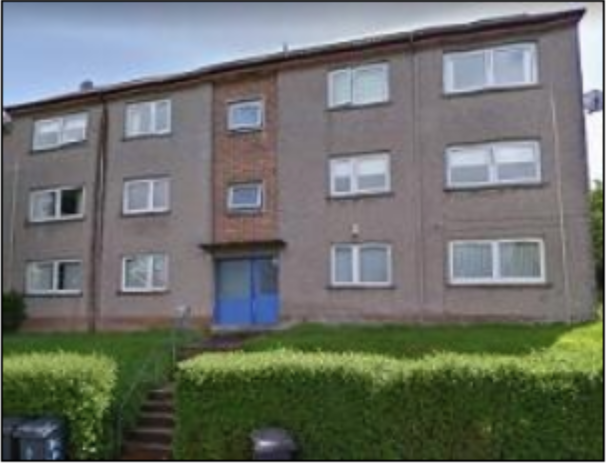
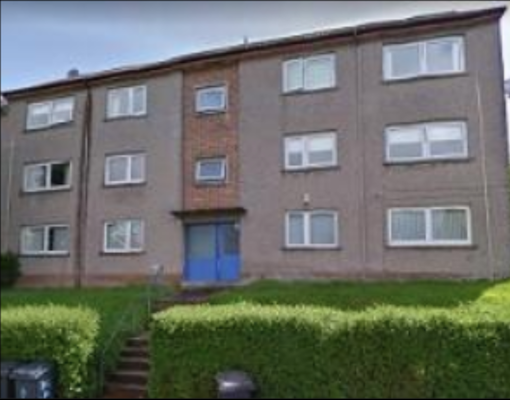
fix small difference in photo size and replace change of cirucmstances by apply for council tax reduction

diff --git a/app/views/index.html b/app/views/index.html
@@ -52,7 +52,7 @@
         <li><a href="/forms/erc-forms/council-tax-online/pay-council-tax/PCTintro"><strong>Pay Council tax</strong></a>   - see the <a href="https://www.eastrenfrewshire.gov.uk/pay-your-council-tax" target="_blank" rel="noopener">live</a> form<span class="govuk-tag started-tag">Started</span></li>
         <li><a href="/forms/erc-forms/council-tax-online/register-for-council-tax/RCTintro"><strong>Register for Council Tax online</strong></a>   - see the <a href="https://www.eastrenfrewshire.gov.uk/council-tax" target="_blank" rel="noopener">live</a> form <span class="govuk-tag started-tag">Started</span></li>
         <li><a href="/forms/erc-forms/council-tax-online/sign-up-council-tax/SCTintro"><strong>Sign in to Council Tax online</strong></a>  - see the <a href="https://www.eastrenfrewshire.gov.uk/council-tax" target="_blank" rel="noopener">live</a> form <span class="govuk-tag started-tag">Started</span></li>
-        <li><strong>Change of circumstances</strong>   - see the <a href="https://www.eastrenfrewshire.gov.uk/report-benefits-change" target="_blank" rel="noopener">live</a> form <span class="govuk-tag todo-tag">To do</span></li>
+        <li><strong>Apply for council tax reduction</strong>   - see the <a href="https://www.eastrenfrewshire.gov.uk/council-tax-reduction" target="_blank" rel="noopener">live</a> form <span class="govuk-tag todo-tag">To do</span></li>
       </ul>
 
 
@@ -66,7 +66,7 @@
         <li><a href="/forms/govuk-forms/learn-to-drive/apply-provisional-licence/APLintro"><strong>Apply for provisional driving licence</strong></a> - see the <a href="https://www.gov.uk/apply-first-provisional-driving-licence" target="_blank" rel="noopener">live</a> form <span class="govuk-tag started-tag">Started</span></li>
         <li><a href="/forms/govuk-forms/learn-to-drive/book-theory-test/BTTintro"><strong>Book your theory test</strong></a> - see the <a href="https://www.gov.uk/book-theory-test" target="_blank" rel="noopener">live</a> form <span class="govuk-tag ready-tag">Ready</span></li>
         <li><a href="/forms/govuk-forms/learn-to-drive/book-driving-test/BDTintro"><strong>Book your driving test</strong></a> - see the <a href="https://www.gov.uk/book-driving-test" target="_blank" rel="noopener">live</a> form <span class="govuk-tag started-tag">Started</span></li>
-        <li><strong>Register to vote</strong> (Not ready and not needed for initial courses)  - see the <a href="https://www.gov.uk/register-to-vote" target="_blank" rel="noopener">live</a> form</li>
+        <li><strong>Register to vote</strong> (started)  - see the <a href="https://www.gov.uk/register-to-vote" target="_blank" rel="noopener">live</a> form</li>
       </ul>
 
       <h3 class="govuk-heading-m govuk-!-margin-top-9">
